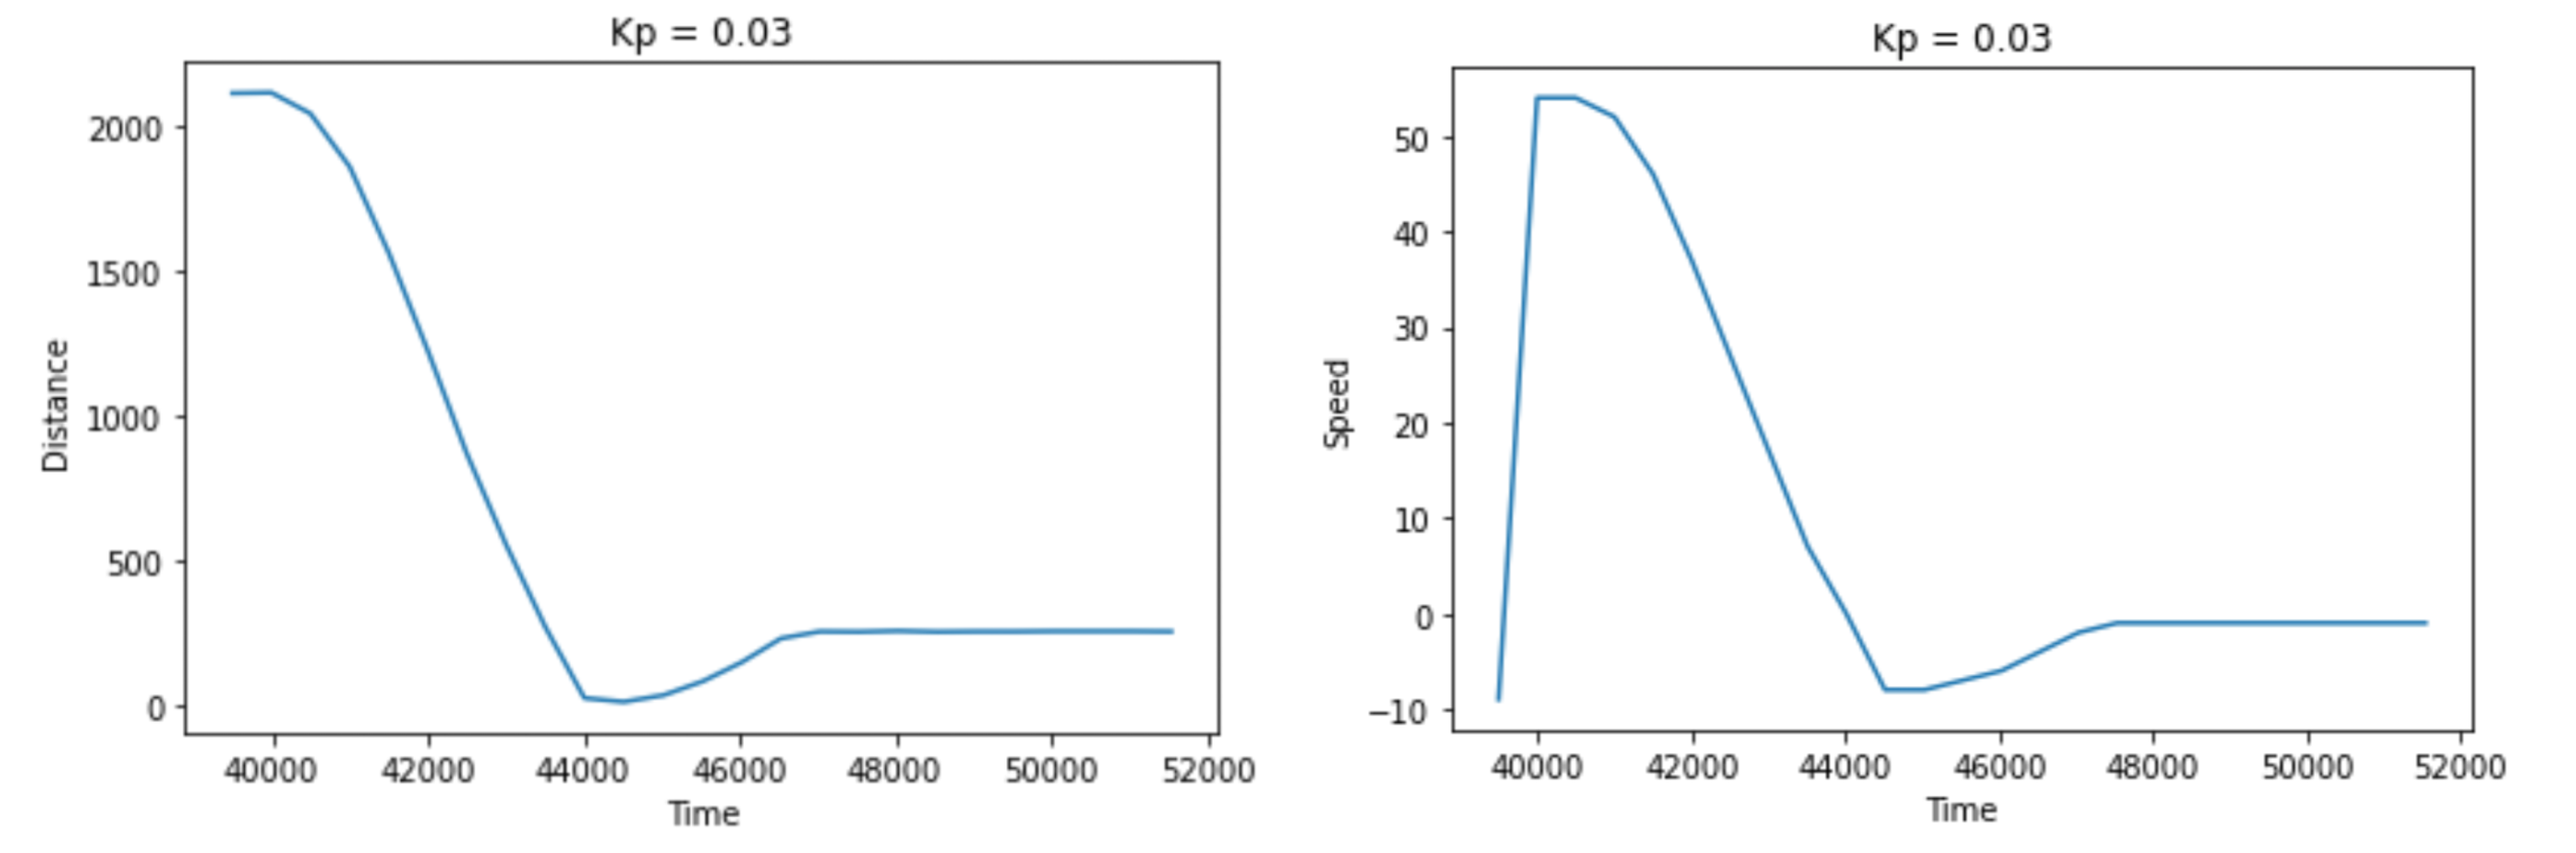
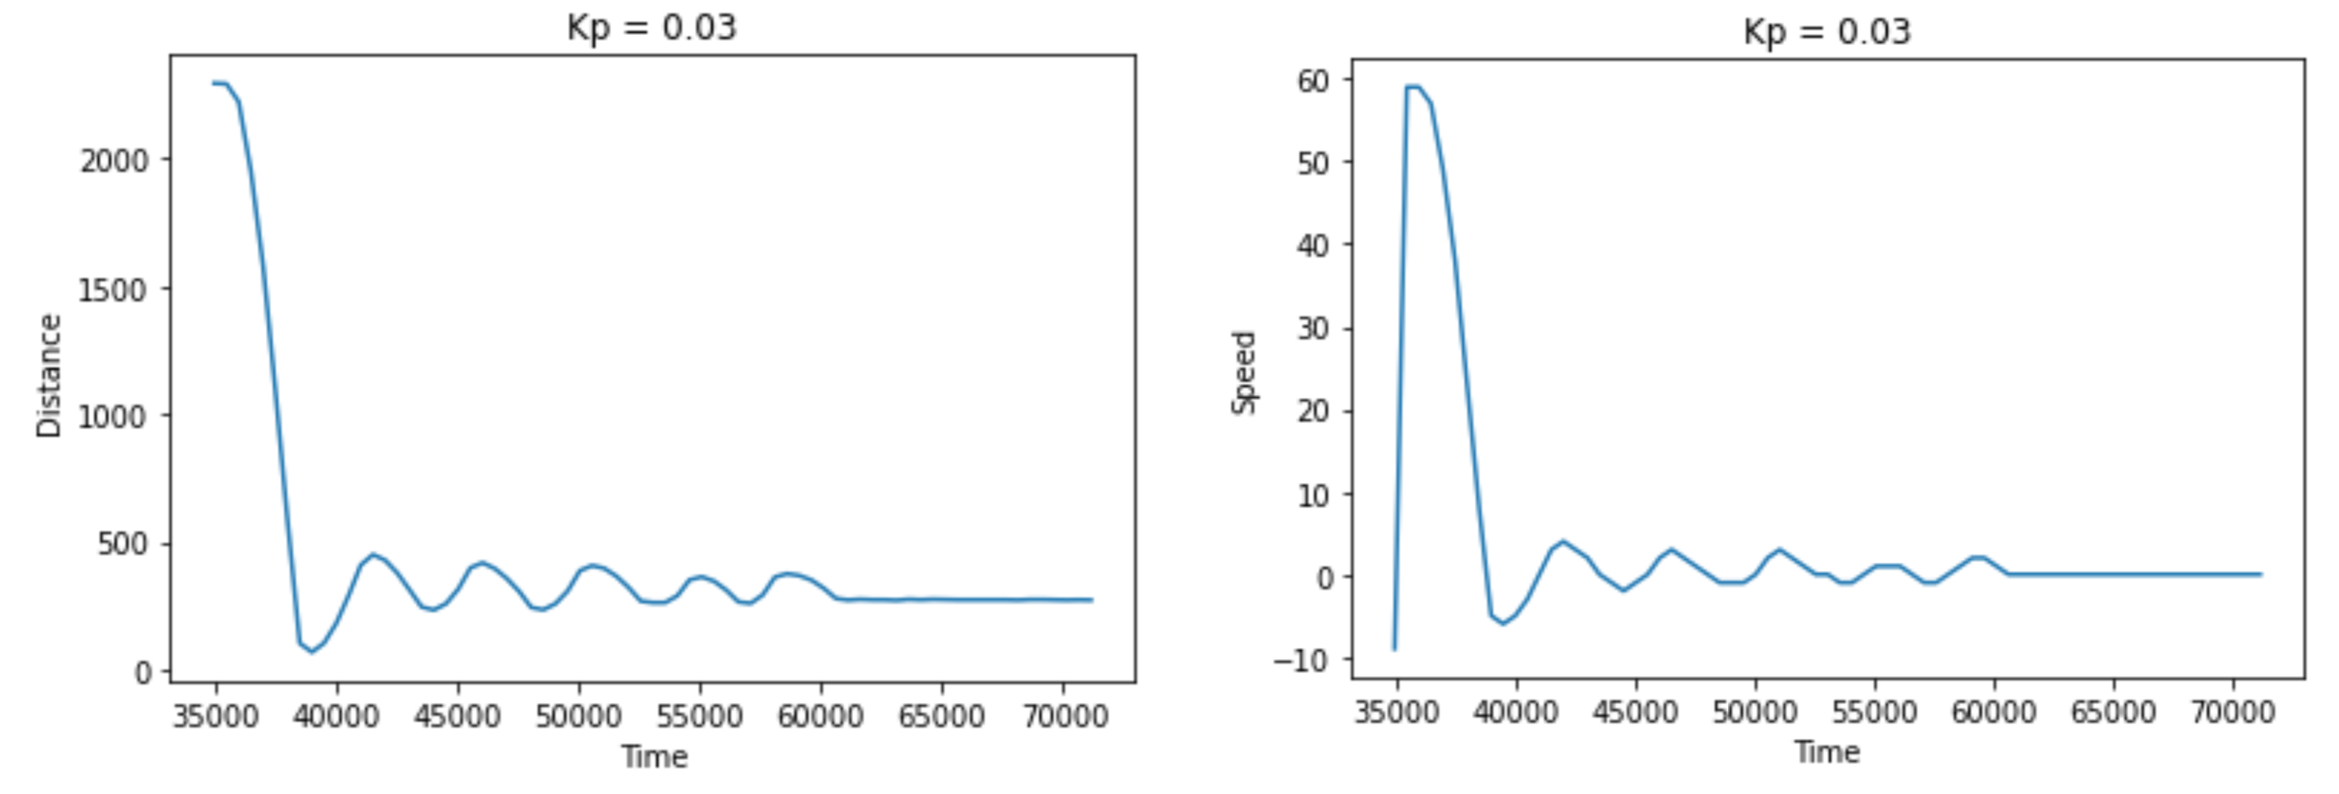
update

Changed region(s): [[0.0, 0.0, 0.9914, 0.9665], [0.1549, 0.343, 0.1859, 0.5612]]

diff --git a/_labs/lab6.md b/_labs/lab6.md
@@ -7,13 +7,32 @@ layout: lab
 ---
 In this lab, we used what we learned from lecture about PID control and implemented it to our car. We first had to set up the bluetooth connection and make sure that the Artemis and laptop could communicate information smoothly so that the laptop can use the information from the sensors to make necessary adjustments, and send that information back to the Artemis and so on.
 
-# Prelab
+# Prelab - Sending Data Over Bluetooth
+
+In order to get the lab to run smoothly, we need to send data to our laptops from the sensors on the car. Since I was planning on doing Task A, I focused on sending the data of only the front ToF sensor. It would be way too slow to send the data everytime I receive new data (ie every 0.5s) so the best way to go about this is the store the data first in the Artemis, and send it over when needed. The steps I took are as follows:
+
+1. Laptop --> Car: Manually send start_task command.
+2. Car: PID control while storing ToF data, speed, and timestamps in arrays.
+3. Laptop --> Car: Manually send stop_task command when I see that the task has been completed.
+Car --> Laptop: Automatically sends the number of data points collected (which is either the size of the array or less).
+4. Laptop: Goes through a for loop and requests from the car the ToF data, speed and timestamps at every index from car. Car sends data at every index. Laptop stores it in an array. This step can take quite a while if we have a lot of data points.
+5. Plot 2 graphs.
+
+When I'm storing data, I don't want to store too many data points unnecessarily so I chose to sample every 0.5s. Another issue that I wanted to combat is ensuring that I don't exceed the internal RAM of 384kB. After testing out how many data points I need to test Task A, I found out that an array size of 150 is sufficient. I would increment the index, and reset it to 0 if I exceed the array size. This is where the timestamps come in handy because it wouldn't matter where the data points are in the array if they correspond to their timestamp.
+
+<style type="text/css">
+  .gist {width:750px !important;}
+  .gist-file
+  .gist-data {max-height: 500px;max-width: 750px;}
+</style>
+
+<script src="https://gist.github.com/anyafp/9ae0be747ff4c55c6a6a3d5ed31cc077.js"></script>
 
 # Lab Tasks
 
-## Task A
+## Task A - P(ID)
 
-For this task, we had to use PID control to ensure that the car stops 300m (30cm) away from the wall. In order to do this, I used only the P in PID. I calculated the error based on the ToF sensor reading and the target distance, obtained the speed from this value and a Kp value, and set the motor speed based on this as shown below:
+For this task, we had to use PID control to ensure that the car stops 300m (30cm) away from the wall. In order to do this, I first used only the P in PID. I calculated the error based on the ToF sensor reading and the target distance, obtained the speed from this value and a Kp value, and set the motor speed based on this as shown below:
 
 <style type="text/css">
   .gist {width:750px !important;}
@@ -22,8 +41,6 @@ For this task, we had to use PID control to ensure that the car stops 300m (30cm
 </style>
 
 <script src="https://gist.github.com/anyafp/c574ca392cbf173d52032e216ce01424.js"></script>
-
-The limit of 5 and -5 for speeds on lines 4 and 6 are to give some leeway to allow for the robot to come to a stop because having the speed at 0 is too precise and specific (I assumed that the car would keep oscillating because it's difficult to get to exactly 0 error).
 
 I added a limiting range to ensure that even as the speed goes beyond the maximum or below the minimum, it would still move.
 
@@ -41,20 +58,30 @@ After ensuring that the P(ID) control works, I needed to figure out what Kp valu
 
 Below is the video demonstration and data points with the above configurations. The time scale is a bit off since I had started the task a while after connecting to bluetooth, but that would just need a shift in the x-axis values which does not affect the y-axis readings.
 
-<p align="left"><iframe width="720" height="408" src="https://youtube.com/embed/fh4uQRVdlgA"></iframe></p>
+<p align="left"><iframe width="720" height="408" src="https://youtube.com/embed/Y3R6rwAZxrI"></iframe></p>
 <p></p>
 
-<p align="left"><img src="../../images/lab6/A-2m-03.png" height="1000" width="1000"></p>
+<p align="left"><img src="../../images/lab6/A-P-2m-03.png" height="1000" width="1000"></p>
 
-As you can see from the video, with a Kp value of 0.03, the car slightly hits the wall before moving back slightly. This can also be seen in the data plots where the distance hits 0 before going back up to 300.
+As you can see from the video, with a Kp value of 0.03, the car slightly hits the wall before moving back slightly. This can also be seen in the data plots where the distance hits close to 0 before oscillating to reach 300. The reason the car overshoots is because it's only using the proportional value of the error and does not take into account the integral or derivative and hence I tried including the derivative.
 
-### Kp = 0.03; Starting Point = ~3m
+## Task A - P(I)D
 
-And now the video demo and data points with starting point that is further away.
+I added in the code to find the derivative and add it to the speed of the motors.
 
-<p align="left"><iframe width="720" height="408" src="https://youtube.com/embed/ksUz9BnLbvE"></iframe></p>
+<style type="text/css">
+  .gist {width:750px !important;}
+  .gist-file
+  .gist-data {max-height: 500px;max-width: 750px;}
+</style>
+
+<script src="https://gist.github.com/anyafp/b975c26ea27371440354baedc86c5074.js"></script>
+
+I tried different variations of Kp and Kd and found that Kp = 0.03 and Kd = 0.05 worked better than the previous run. Below are the video demo and data plots.
+
+<p align="left"><iframe width="720" height="408" src="https://youtube.com/embed/atbrFemJw8E"></iframe></p>
 <p></p>
 
-<p align="left"><img src="../../images/lab6/A-3m-03.png" height="1000" width="1000"></p>
+<p align="left"><img src="../../images/lab6/A-PD-2m-03-05.png" height="1000" width="1000"></p>
 
-As expected, because the error (and thus speed, as seen in the speed plot) starts off higher when the starting distance is further away, this gives the car less time to slow down and rams harder into the wall than when the starting distance was 2m instead.
+As seen in the plots above, the car takes less oscillations to reach the stable state (300mm) and less time to do so, which indicates that it performs better than only having the proportional part of the PID control. This, however, is very dependent on the Kp and Kd values chosen as I had to do a lot of trial and error with the values before getting a run that performed better than only the P(ID) control.
